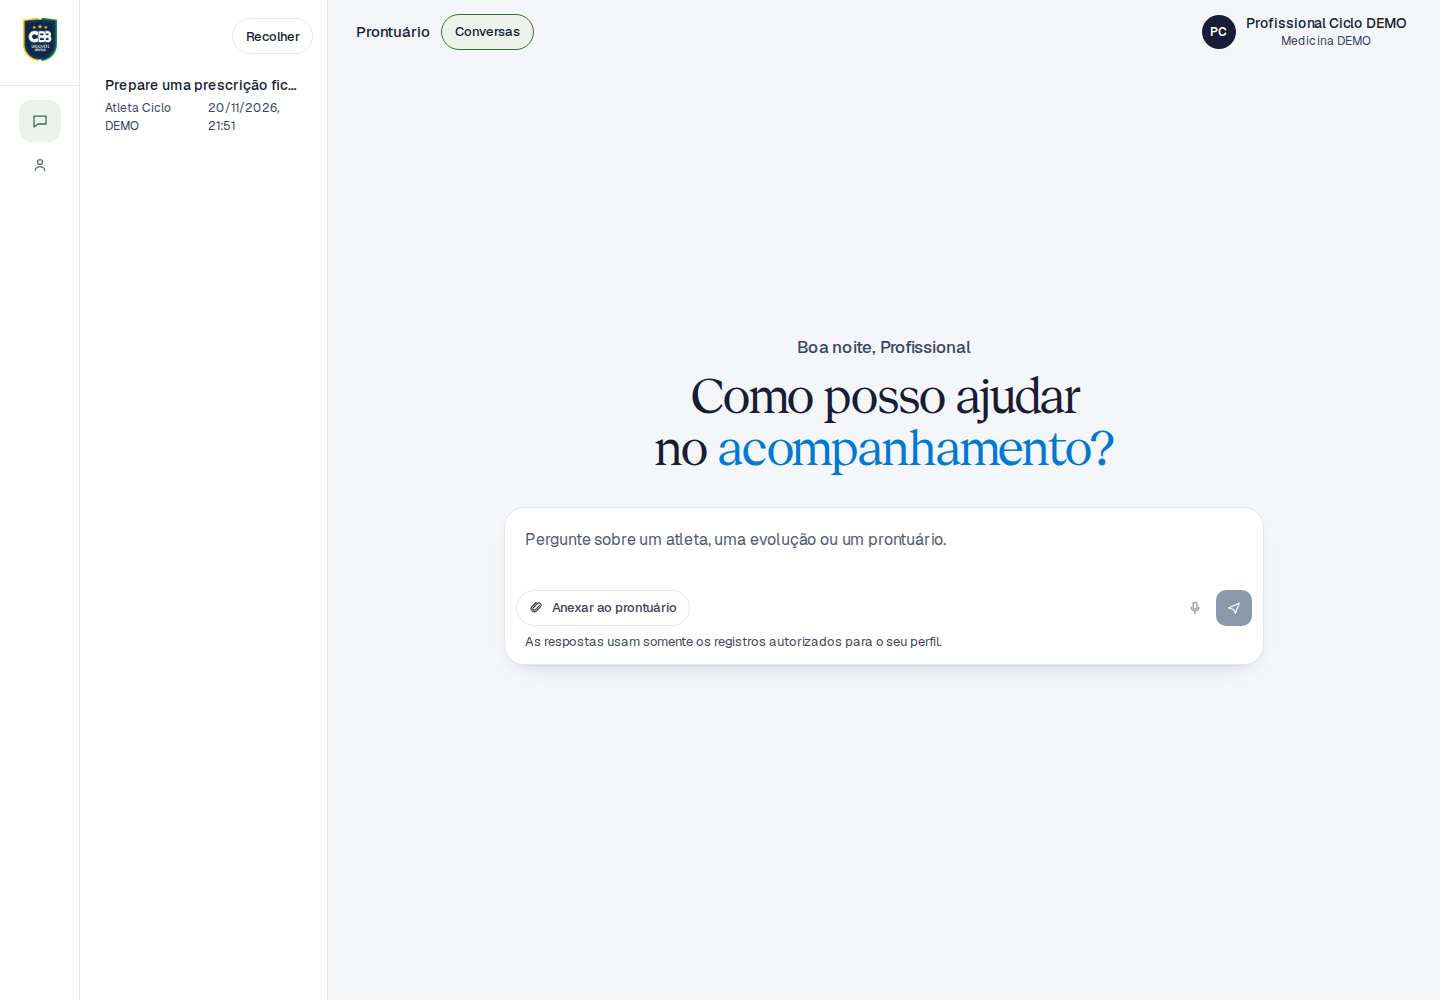
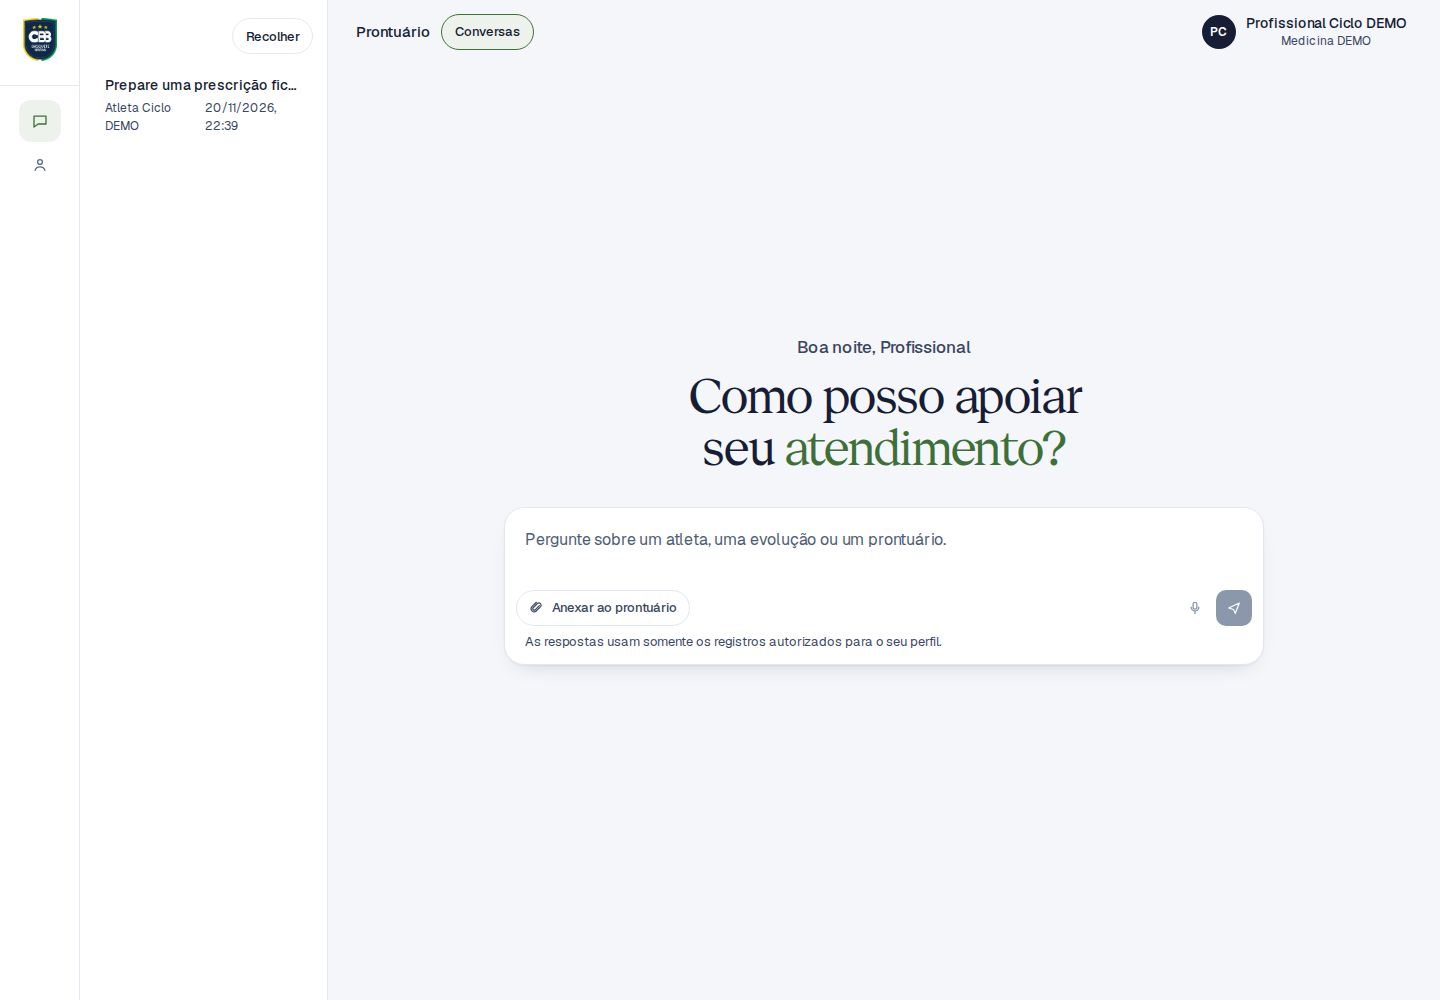
fix: apply green to actual greeting emphasis and verify computed colour

Changed region(s): [[0.4375, 0.372, 0.7812, 0.465], [0.125, 0.093, 0.1875, 0.124]]

diff --git a/src/features/chat/home-greeting.tsx b/src/features/chat/home-greeting.tsx
@@ -21,7 +21,7 @@ function GreetingText({ phrase, count = phrase.length }: {
   return (
     <>
       {visible.slice(0, lastWord)}
-      <span style={{ color: "var(--ia-blue)" }}>{visible.slice(lastWord)}</span>
+      <span style={{ color: "var(--cbb-green)" }}>{visible.slice(lastWord)}</span>
     </>
   );
 }

diff --git a/docs/HANDOFF-007-10-6C-REPORT.md b/docs/HANDOFF-007-10-6C-REPORT.md
@@ -13,7 +13,7 @@ A `main` e a tag `baseline/pre-paleta-2026-11-20` permanecem em `126ed085797d113
 Somente três arquivos de produção alterados, todos CSS:
 
 - `src/app/globals.css`: tokens institucionais canônicos, navy institucional, navegação selecionada, links e botão de busca, foco e cores de interação/carregamento.
-- `src/features/chat/intelligence.css`: marca consistente, ações apropriadas em verde, hover/active, seleção e foco. Voz/informação continuam semânticas; a última palavra azul da saudação foi preservada por preferência explícita do usuário.
+- `src/features/chat/intelligence.css`: marca consistente, ações apropriadas em verde, hover/active, seleção e foco. Voz/informação continuam semânticas; a última palavra da saudação passou a usar o verde institucional por solicitação posterior do usuário, inclusive no estilo inline do texto animado e na versão de movimento reduzido.
 - `src/features/documents/documents.css`: cores anteriores fixadas exclusivamente na folha documental, por contexto, para impedir alteração silenciosa de sua apresentação.
 
 Sidebar continua clara; fundos existentes mantidos. Tipografia, escala, espaçamentos, larguras de borda, raios, grid, navegação e formulários preservados. Nenhum JSX, contrato, API, autorização, auditoria ou backend alterado. Ações destrutivas e secundárias mantêm sua hierarquia.
@@ -107,7 +107,7 @@ Sem pendência técnica conhecida no escopo. Falta homologação visual do usuá
 2. Conferir botões primários, hover, Tab/foco e ações secundárias.
 3. Abrir prescrição com vários itens e revisar: organização deve continuar igual.
 4. Conferir documento finalizado e estados simulados: apresentação documental preservada.
-5. Conferir chat, contexto e proposta pendente; a palavra final da saudação continua azul.
+5. Conferir chat, contexto e proposta pendente; a palavra final da saudação aparece em verde institucional (#3D7039).
 6. Conferir as duas amostras mobile e aprovar a paleta antes de integrar.
 
 ## Rollback e retomada
